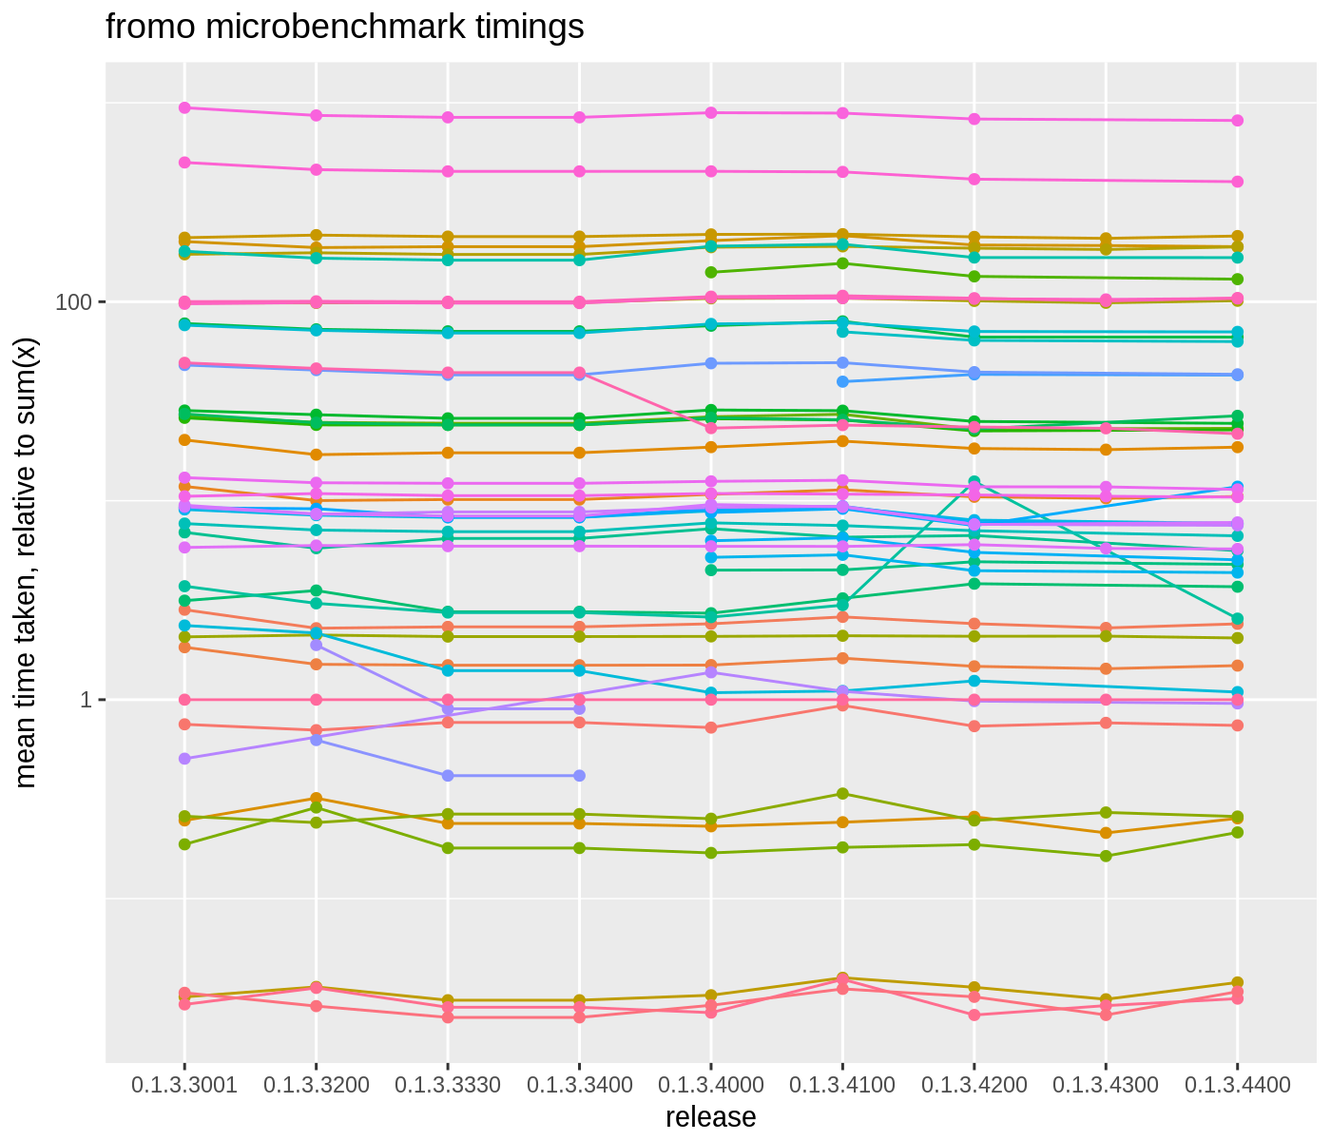
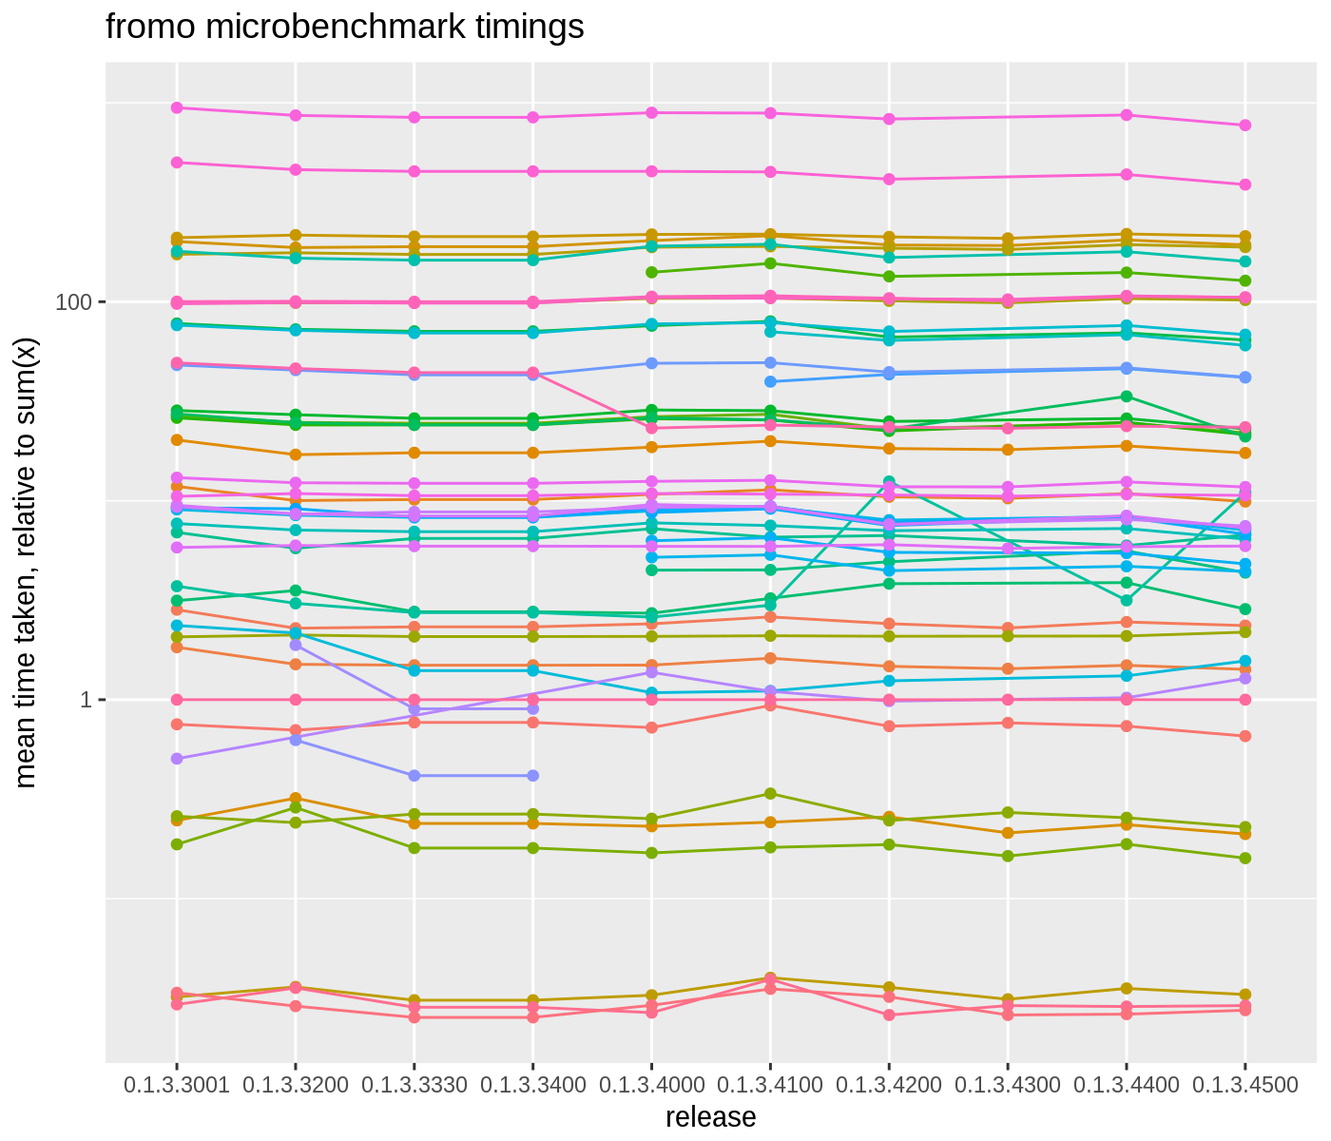
weights in running_sum and running_mean.
I think they work now!

diff --git a/src/fromo.cpp b/src/fromo.cpp
@@ -1083,7 +1083,7 @@ RET runningSumish(T v,W wts,int window,
                   int recom_period,
                   const bool na_rm,
                   const bool check_wts) {
-    if ((retwhat==ret_mean) && (min_df < 1)) { stop("BAD CODE: must give positive min_df"); }
+    if (min_df < 0) { stop("BAD CODE: must give positive min_df"); }
 
     oneT nextv, prevv;
     double f_vsum, tmpv, nxtv, verrsum;

diff --git a/nodist/timings.md b/nodist/timings.md
@@ -25,7 +25,7 @@ print(Sys.info())
 ##                                       sysname                                       release                                       version 
 ##                                       "Linux"                            "4.4.0-77-generic" "#98-Ubuntu SMP Wed Apr 26 08:34:02 UTC 2017" 
 ##                                      nodename                                       machine                                         login 
-##                                "850b5bb3499b"                                      "x86_64"                                     "unknown" 
+##                                "4a160b287f08"                                      "x86_64"                                     "unknown" 
 ##                                          user                                effective_user 
 ##                                        "spav"                                        "spav"
 ```
@@ -49,7 +49,7 @@ print(sessionInfo())
 ## 
 ## other attached packages:
 ##  [1] RcppParallel_4.3.20    RcppRoll_0.2.2         roll_1.0.7             RollingWindow_0.2      microbenchmark_1.4-2.1 moments_0.14          
-##  [7] dplyr_0.5.0            ggplot2_2.2.1          knitr_1.15.1           fromo_0.1.3.4400      
+##  [7] dplyr_0.5.0            ggplot2_2.2.1          knitr_1.15.1           fromo_0.1.3.4500      
 ## 
 ## loaded via a namespace (and not attached):
 ##  [1] Rcpp_0.12.11     grDevices_3.3.0  assertthat_0.1   R6_2.1.2         grid_3.3.0       plyr_1.8.4       DBI_0.6-1        gtable_0.2.0     formatR_1.4     
@@ -77,16 +77,16 @@ print(checkit)
 
 ```
 ## Unit: microseconds
-##         expr   min    lq  mean median    uq   max neval     cld
-##       sum(x)    80    80    81     80    81    90   100 a      
-##      mean(x)   162   164   169    165   168   278   100 a      
-##        sd(x)   459   462   475    468   481   602   100  b     
-##  skewness(x)  8278  8313  8595   8374  8533 10489   100     e  
-##  kurtosis(x)  8111  8131  8388   8187  8348 10466   100    d   
-##       sd3(x)   848   851   870    860   881  1064   100   c    
-##     skew4(x)  8535  8564  8654   8596  8706  9554   100     e  
-##     kurt5(x) 15373 15426 15651  15493 15731 17211   100      f 
-##     dumbk(x) 17062 17120 17712  17270 18133 20193   100       g
+##         expr   min    lq  mean median    uq   max neval    cld
+##       sum(x)    80    82    91     83    94   219   100 a     
+##      mean(x)   162   172   199    189   220   346   100 ab    
+##        sd(x)   461   498   539    520   557   929   100  b    
+##  skewness(x)  8377  8953  9591   9309  9958 14205   100    d  
+##  kurtosis(x)  8205  8645  9294   9037  9601 14278   100    d  
+##       sd3(x)   849   892   969    929  1028  1860   100   c   
+##     skew4(x)  8663  9016  9575   9410  9833 13855   100    d  
+##     kurt5(x) 15767 16568 17149  16839 17299 25018   100     e 
+##     dumbk(x) 17458 18355 19454  19013 20283 26455   100      f
 ```
 
 ```r
@@ -111,9 +111,9 @@ print(checkit)
 ```
 ## Unit: microseconds
 ##                                                                          expr   min    lq  mean median    uq   max neval cld
-##  cent_moments(x, max_order = 4, wts = w, na_rm = TRUE, normalize_wts = FALSE) 16272 16348 16517  16437 16566 17503   100   c
-##                                                               sd3(x, wts = w)   980   982  1005    991  1017  1215   100 a  
-##                                                                 slow_sd(x, w)  1397  1409  1912   1449  2749  3730   100  b
+##  cent_moments(x, max_order = 4, wts = w, na_rm = TRUE, normalize_wts = FALSE) 16587 16912 17603  17426 18160 19969   100   c
+##                                                               sd3(x, wts = w)   982  1008  1068   1041  1076  1385   100 a  
+##                                                                 slow_sd(x, w)  1402  1488  2133   1721  2749  4518   100  b
 ```
 
 ```r
@@ -134,10 +134,10 @@ print(checkit)
 ```
 ## Unit: microseconds
 ##                expr  min   lq mean median   uq  max neval  cld
-##  as.centsums(x1, 1)  193  194  199    195  197  240   100  b  
-##  as.centsums(x1, 2)  113  115  120    116  119  272   100 a   
-##  as.centsums(x1, 3)  863  868  878    870  882  997   100   c 
-##  as.centsums(x1, 4) 1506 1509 1524   1513 1533 1594   100    d
+##  as.centsums(x1, 1)  191  196  215    198  210  542   100  b  
+##  as.centsums(x1, 2)  114  115  129    118  128  302   100 a   
+##  as.centsums(x1, 3)  857  866  902    886  916 1050   100   c 
+##  as.centsums(x1, 4) 1503 1528 1583   1551 1592 3037   100    d
 ```
 
 ```r
@@ -156,8 +156,8 @@ print(checkit)
 ```
 ## Unit: microseconds
 ##           expr min lq mean median uq max neval cld
-##  c(obj1, obj2)  14 15   19     16 17 179   100   a
-##  obj3 %-% obj1  11 12   15     12 13 114   100   a
+##  c(obj1, obj2)  14 15   19     16 16 197   100   b
+##  obj3 %-% obj1  11 12   15     13 13  96   100  a
 ```
 
 ```r
@@ -176,10 +176,10 @@ print(checkit)
 
 ```
 ## Unit: microseconds
-##                        expr min  lq mean median  uq  max neval cld
-##    join_cent_sums(rs1, rs2) 2.1 2.3  2.9    2.3 2.5 26.3   100   b
-##  unjoin_cent_sums(rs3, rs2) 1.9 2.0  2.1    2.1 2.2  2.9   100  a 
-##  unjoin_cent_sums(rs3, rs1) 1.9 2.0  2.3    2.1 2.3 14.5   100  ab
+##                        expr min  lq mean median  uq max neval cld
+##    join_cent_sums(rs1, rs2) 2.3 2.5  3.0    2.6 2.8  27   100   a
+##  unjoin_cent_sums(rs3, rs2) 2.1 2.2  2.5    2.3 2.5  16   100   a
+##  unjoin_cent_sums(rs3, rs1) 2.1 2.2  2.6    2.3 2.5  25   100   a
 ```
 
 ```r
@@ -211,8 +211,8 @@ print(checkit)
 ```
 ## Unit: microseconds
 ##                        expr min lq mean median uq max neval cld
-##  as.centcosums(x1, max_ord)  53 54   60     56 62 145   100   b
-##             mobj3 %-% mobj1  17 18   21     19 20  36   100  a
+##  as.centcosums(x1, max_ord)  52 55   60     56 65 149   100   b
+##             mobj3 %-% mobj1  17 18   21     19 21  46   100  a
 ```
 
 ```r
@@ -273,33 +273,33 @@ print(checkit)
 ```
 ## Unit: microseconds
 ##                                                           expr   min    lq  mean median    uq    max neval        cld
-##                         silly_fun(x, wins, sum, na.rm = FALSE) 32340 33174 35256  34692 35489 107522   100         i 
-##                        silly_fun(x, wins, mean, na.rm = FALSE) 64760 66221 70167  67948 69411 144029   100          j
-##                                           running_sum(x, wins)    73    77    83     79    86    120   100 a         
-##                                          running_mean(x, wins)    74    77   107     80    88   2364   100 a         
-##                                       roll::roll_sum(xm, wins)  1782  1827  2703   1869  1945  80413   100    de     
-##                                      roll::roll_mean(xm, wins)  1965  2003  2092   2039  2129   3647   100   c e     
-##                                        roll::roll_sd(xm, wins)  5427  5491  5638   5535  5623   7163   100      f    
-##       RollingWindow::RollingSum(x, wins, na_method = "ignore")   365   388   481    414   451   2600   100 a c       
-##                             RollingWindow::RollingSum(x, wins)   112   138   255    151   192   2801   100 a         
-##                            RollingWindow::RollingMean(x, wins)   144   163   313    183   222   2994   100 ab        
-##                             RollingWindow::RollingStd(x, wins)   226   253   452    270   318   3301   100 a c       
-##   RcppRoll::roll_sum(xm, n = wins, align = "right", fill = NA)  1753  1945  2003   1980  2029   3968   100  bcd      
-##  RcppRoll::roll_mean(xm, n = wins, align = "right", fill = NA)  1731  1864  1989   2010  2055   2885   100  bcd      
-##    RcppRoll::roll_sd(xm, n = wins, align = "right", fill = NA) 10359 10639 11334  10818 12218  15091   100       g   
-##    running_sd(x, wins, na_rm = FALSE, restart_period = 50000L)   356   361   378    370   387    479   100 a c       
-##      running_sd(x, wins, na_rm = TRUE, restart_period = 1000L)   413   421   441    429   443    679   100 a c       
-##                                           running_sd3(x, wins)   587   594   667    605   627   3061   100 a c       
-##                                          running_skew(x, wins)  3635  3657  3725   3689  3759   4267   100     e     
-##                                         running_skew4(x, wins)  3646  3675  3763   3704  3774   5886   100     e     
-##                                          running_kurt(x, wins)  5329  5369  5518   5405  5563   6923   100      f    
-##                                         running_kurt5(x, wins)  5937  5972  6143   6030  6139   8581   100      f    
-##                                         running_tstat(x, wins)   621   630   651    641   653    880   100 a c       
-##                                       running_zscored(x, wins)   624   630   680    647   668   2890   100 a c       
-##                                        running_sharpe(x, wins)   621   629   672    644   660   2837   100 a c       
-##                                    running_apx_median(x, wins) 14036 14131 14422  14238 14499  16871   100        h  
-##                                      running_centered(x, wins)   556   565   586    575   591    747   100 a c       
-##                                        running_scaled(x, wins)   618   628   671    643   659   2911   100 a c
+##                         silly_fun(x, wins, sum, na.rm = FALSE) 32383 33074 35343  34908 35363 109327   100         i 
+##                        silly_fun(x, wins, mean, na.rm = FALSE) 65059 66156 70273  68181 68999 148598   100          j
+##                                           running_sum(x, wins)   104   109   117    112   119    179   100 a         
+##                                          running_mean(x, wins)   106   109   143    113   122   2591   100 a         
+##                                       roll::roll_sum(xm, wins)  1789  1845  1916   1881  1943   2493   100  bc       
+##                                      roll::roll_mean(xm, wins)  1966  1997  2092   2041  2109   4248   100   cd      
+##                                        roll::roll_sd(xm, wins)  5450  5512  5847   5589  5810  16484   100      f    
+##       RollingWindow::RollingSum(x, wins, na_method = "ignore")   361   386   613    421   453   2722   100 a c       
+##                             RollingWindow::RollingSum(x, wins)   109   135  1000    146   190  77222   100 a c       
+##                            RollingWindow::RollingMean(x, wins)   142   163   260    182   230   2459   100 ab        
+##                             RollingWindow::RollingStd(x, wins)   226   258   396    277   324   2613   100 a c       
+##   RcppRoll::roll_sum(xm, n = wins, align = "right", fill = NA)  1756  1832  1957   1965  2013   4198   100  bc       
+##  RcppRoll::roll_mean(xm, n = wins, align = "right", fill = NA)  1737  1821  1997   2007  2062   4075   100  bc       
+##    RcppRoll::roll_sd(xm, n = wins, align = "right", fill = NA) 10409 10794 11625  11048 12712  14635   100       g   
+##    running_sd(x, wins, na_rm = FALSE, restart_period = 50000L)   355   361   402    371   390   2271   100 a c       
+##      running_sd(x, wins, na_rm = TRUE, restart_period = 1000L)   414   420   439    426   444    731   100 a c       
+##                                           running_sd3(x, wins)   586   592   618    606   619    971   100 a c       
+##                                          running_skew(x, wins)  3642  3682  3793   3734  3806   6331   100    de     
+##                                         running_skew4(x, wins)  3639  3674  3805   3727  3811   6060   100    de     
+##                                          running_kurt(x, wins)  5339  5368  5499   5431  5512   6681   100     ef    
+##                                         running_kurt5(x, wins)  5935  6025  6224   6093  6210   8791   100      f    
+##                                         running_tstat(x, wins)   623   630   679    643   669   2368   100 a c       
+##                                       running_zscored(x, wins)   622   634   665    652   673   1057   100 a c       
+##                                        running_sharpe(x, wins)   620   626   662    639   668   1068   100 a c       
+##                                    running_apx_median(x, wins) 13979 14120 14529  14268 14554  17211   100        h  
+##                                      running_centered(x, wins)   548   558   584    574   592    770   100 a c       
+##                                        running_scaled(x, wins)   621   627   648    635   648    829   100 a c
 ```
 
 ```r
@@ -371,55 +371,55 @@ allt %>% select(-sernum, -relchange, -meantime, -sumx_time,
 
 |expr                                                                         | first_norm| last_norm| last_status|
 |:----------------------------------------------------------------------------|----------:|---------:|-----------:|
-|running_sum(x, wins)                                                         |       0.51|      0.96|        1.89|
-|running_sd3(x, wins)                                                         |       8.72|     11.76|        1.35|
-|join_cent_sums(rs1, rs2)                                                     |       0.03|      0.04|        1.18|
-|RollingWindow::RollingMean(x, wins)                                          |       3.15|      3.70|        1.17|
-|obj3 %-% obj1                                                                |       0.19|      0.22|        1.15|
-|kurt5(x)                                                                     |     173.12|    188.56|        1.09|
-|running_skew(x, wins)                                                        |      39.66|     42.78|        1.08|
-|unjoin_cent_sums(rs3, rs1)                                                   |       0.03|      0.03|        1.07|
-|RollingWindow::RollingStd(x, wins)                                           |       4.48|      4.79|        1.07|
-|skew4(x)                                                                     |      97.66|    103.88|        1.06|
-|skewness(x)                                                                  |     100.16|    104.39|        1.04|
-|kurtosis(x)                                                                  |      98.46|    101.11|        1.03|
-|c(obj1, obj2)                                                                |       0.25|      0.25|        1.02|
-|dumbk(x)                                                                     |     209.85|    213.89|        1.02|
-|unjoin_cent_sums(rs3, rs2)                                                   |       0.03|      0.03|        1.01|
+|RollingWindow::RollingSum(x, wins)                                           |       3.72|     10.97|        2.95|
+|running_sum(x, wins)                                                         |       0.51|      1.28|        2.53|
+|kurt5(x)                                                                     |     173.12|    188.17|        1.09|
+|skew4(x)                                                                     |      97.66|    105.06|        1.08|
+|mean(x)                                                                      |       2.07|      2.19|        1.06|
+|skewness(x)                                                                  |     100.16|    105.23|        1.05|
+|running_skew(x, wins)                                                        |      39.66|     41.62|        1.05|
+|kurtosis(x)                                                                  |      98.46|    101.98|        1.04|
+|join_cent_sums(rs1, rs2)                                                     |       0.03|      0.03|        1.03|
+|dumbk(x)                                                                     |     209.85|    213.46|        1.02|
+|sd(x)                                                                        |       5.82|      5.92|        1.02|
+|sd3(x)                                                                       |      10.52|     10.63|        1.01|
 |sum(x)                                                                       |       1.00|      1.00|        1.00|
-|mobj3 %-% mobj1                                                              |       0.26|      0.26|        1.00|
-|sd3(x)                                                                       |      10.52|     10.43|        0.99|
-|as.centcosums(x1, max_ord)                                                   |       0.75|      0.74|        0.99|
-|mean(x)                                                                      |       2.07|      2.04|        0.99|
-|sd(x)                                                                        |       5.82|      5.72|        0.98|
-|roll::roll_sum(xm, wins)                                                     |      27.28|     26.71|        0.98|
-|cent_moments(x, max_order = 4, wts = w, na_rm = TRUE, normalize_wts = FALSE) |     200.65|    189.18|        0.94|
-|running_apx_median(x, wins)                                                  |     179.28|    166.64|        0.93|
-|running_kurt5(x, wins)                                                       |      76.25|     70.56|        0.93|
-|RcppRoll::roll_sd(xm, n = wins, align = "right", fill = NA)                  |     140.59|    129.83|        0.92|
-|as.centsums(x1, 4)                                                           |      20.20|     18.58|        0.92|
-|running_skew4(x, wins)                                                       |      48.07|     43.18|        0.90|
-|running_kurt(x, wins)                                                        |      70.61|     63.08|        0.89|
-|as.centsums(x1, 3)                                                           |      11.79|     10.49|        0.89|
-|sd3(x, wts = w)                                                              |      13.06|     11.39|        0.87|
-|RcppRoll::roll_sum(xm, n = wins, align = "right", fill = NA)                 |      26.10|     22.71|        0.87|
-|running_centered(x, wins)                                                    |       7.68|      6.66|        0.87|
-|silly_fun(x, wins, mean, na.rm = FALSE)                                      |     943.85|    814.66|        0.86|
-|RcppRoll::roll_mean(xm, n = wins, align = "right", fill = NA)                |      26.80|     23.10|        0.86|
-|roll::roll_mean(xm, wins)                                                    |      28.39|     24.46|        0.86|
-|roll::roll_sd(xm, wins)                                                      |      77.75|     66.37|        0.85|
-|running_scaled(x, wins)                                                      |       9.03|      7.69|        0.85|
-|as.centsums(x1, 1)                                                           |       2.83|      2.40|        0.85|
-|running_sd(x, wins, na_rm = FALSE, restart_period = 50000L)                  |       5.19|      4.35|        0.84|
-|running_sharpe(x, wins)                                                      |       9.22|      7.63|        0.83|
-|running_zscored(x, wins)                                                     |       9.49|      7.78|        0.82|
-|RollingWindow::RollingSum(x, wins, na_method = "ignore")                     |       6.93|      5.61|        0.81|
-|as.centsums(x1, 2)                                                           |       1.83|      1.48|        0.81|
-|running_tstat(x, wins)                                                       |       9.32|      7.52|        0.81|
-|running_sd(x, wins, na_rm = TRUE, restart_period = 1000L)                    |       6.29|      5.04|        0.80|
-|silly_fun(x, wins, sum, na.rm = FALSE)                                       |     501.06|    401.28|        0.80|
-|RollingWindow::RollingSum(x, wins)                                           |       3.72|      2.55|        0.69|
+|unjoin_cent_sums(rs3, rs1)                                                   |       0.03|      0.03|        0.99|
+|RollingWindow::RollingStd(x, wins)                                           |       4.48|      4.35|        0.97|
+|RollingWindow::RollingSum(x, wins, na_method = "ignore")                     |       6.93|      6.72|        0.97|
+|cent_moments(x, max_order = 4, wts = w, na_rm = TRUE, normalize_wts = FALSE) |     200.65|    193.15|        0.96|
+|RcppRoll::roll_sd(xm, n = wins, align = "right", fill = NA)                  |     140.59|    127.56|        0.91|
+|RollingWindow::RollingMean(x, wins)                                          |       3.15|      2.85|        0.91|
+|sd3(x, wts = w)                                                              |      13.06|     11.72|        0.90|
+|running_kurt5(x, wins)                                                       |      76.25|     68.30|        0.90|
+|running_apx_median(x, wins)                                                  |     179.28|    159.42|        0.89|
+|mobj3 %-% mobj1                                                              |       0.26|      0.23|        0.88|
+|as.centcosums(x1, max_ord)                                                   |       0.75|      0.66|        0.87|
+|running_skew4(x, wins)                                                       |      48.07|     41.75|        0.87|
+|as.centsums(x1, 4)                                                           |      20.20|     17.37|        0.86|
+|running_kurt(x, wins)                                                        |      70.61|     60.34|        0.85|
+|c(obj1, obj2)                                                                |       0.25|      0.21|        0.85|
+|obj3 %-% obj1                                                                |       0.19|      0.16|        0.85|
+|running_sd(x, wins, na_rm = FALSE, restart_period = 50000L)                  |       5.19|      4.41|        0.85|
+|as.centsums(x1, 3)                                                           |      11.79|      9.90|        0.84|
+|running_centered(x, wins)                                                    |       7.68|      6.41|        0.84|
+|as.centsums(x1, 1)                                                           |       2.83|      2.36|        0.83|
+|roll::roll_sd(xm, wins)                                                      |      77.75|     64.15|        0.83|
+|RcppRoll::roll_sum(xm, n = wins, align = "right", fill = NA)                 |      26.10|     21.48|        0.82|
+|unjoin_cent_sums(rs3, rs2)                                                   |       0.03|      0.03|        0.82|
+|RcppRoll::roll_mean(xm, n = wins, align = "right", fill = NA)                |      26.80|     21.91|        0.82|
+|silly_fun(x, wins, mean, na.rm = FALSE)                                      |     943.85|    771.09|        0.82|
+|roll::roll_mean(xm, wins)                                                    |      28.39|     22.96|        0.81|
+|running_tstat(x, wins)                                                       |       9.32|      7.45|        0.80|
+|running_sharpe(x, wins)                                                      |       9.22|      7.26|        0.79|
+|running_scaled(x, wins)                                                      |       9.03|      7.11|        0.79|
+|running_sd3(x, wins)                                                         |       8.72|      6.78|        0.78|
+|as.centsums(x1, 2)                                                           |       1.83|      1.42|        0.77|
+|silly_fun(x, wins, sum, na.rm = FALSE)                                       |     501.06|    387.81|        0.77|
+|roll::roll_sum(xm, wins)                                                     |      27.28|     21.02|        0.77|
+|running_zscored(x, wins)                                                     |       9.49|      7.29|        0.77|
+|running_sd(x, wins, na_rm = TRUE, restart_period = 1000L)                    |       6.29|      4.81|        0.76|
+|running_mean(x, wins)                                                        |       2.36|      1.57|        0.66|
 |running_sum(x, wins, robust = FALSE)                                         |       0.63|      0.42|        0.66|
-|running_sum(x, wins, robust = TRUE)                                          |       1.88|      0.90|        0.48|
 
 
